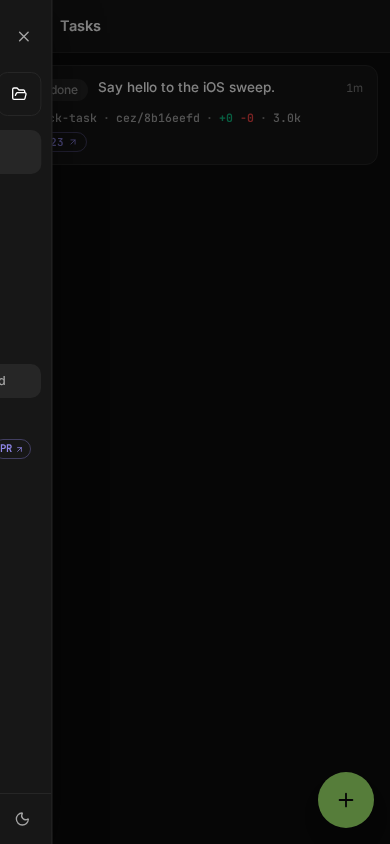
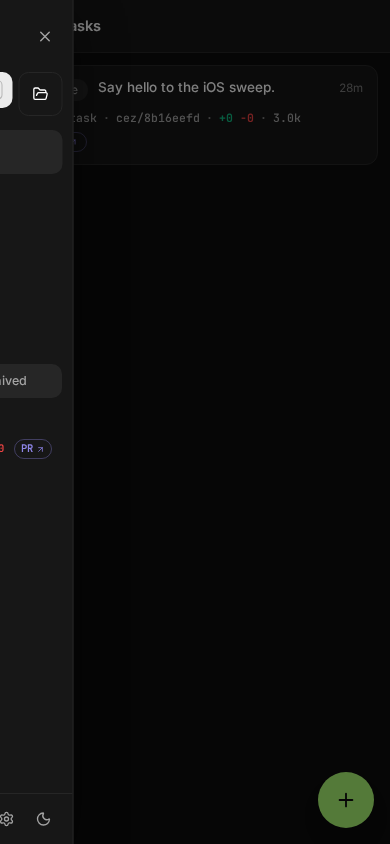
docs(runs): record passing final gate

diff --git a/.ai/runs/2026-07-22-automatic-open-mercato-skills-updates/final-gate-checks.md b/.ai/runs/2026-07-22-automatic-open-mercato-skills-updates/final-gate-checks.md
@@ -1,0 +1,41 @@
+# Final gate — Automatic Open Mercato skills updates
+
+**Final implementation SHA:** `566586c`
+**Source spec:** `.ai/specs/2026-07-22-automatic-open-mercato-skills-updates.md`
+
+## Configured validation gate
+
+- ✅ `npm run typecheck`
+- ✅ `npm test` — 229 files, 4,010 tests passed
+- ✅ `npm run test:unit` — 34 tests passed
+- ✅ `npm run build` — server, cockpit, and `check:pack` passed
+- ✅ `npm run test:package` — 8 tests passed
+
+The first unit-gate attempt identified missing protected-route inventory entries for the three new workspace endpoints. Step `3.5-final-fix` added them; the complete gate then passed.
+
+## Full integration suite
+
+- ✅ `npm run test:e2e`
+- Result: `TEST_E2E_STATUS=passed`
+- 31 files passed; 190 tests passed; 4 intentional skips.
+- Initial full-suite runs exposed legacy fixture drift around project-scoped URLs, detached HEAD, nondeterministic dry-run PR state, async query settling, and fixture-server teardown. Steps `3.6-final-fix` through `3.8-final-fix` stabilized those tests without weakening their behavioral contracts.
+
+## Skills update visual evidence
+
+- `checkpoint-3-artifacts/settings-skills-auto-update.png`
+- `checkpoint-3-artifacts/skills-navigation-current.png`
+- `checkpoint-3-artifacts/skills-update-success.png`
+- `checkpoint-3-artifacts/skills-mobile-navigation.png`
+
+## Style-compliance pass
+
+- ⏭ No separate design-system/style-compliance skill or script is configured for this repository.
+- ✅ TypeScript typecheck, existing UI unit tests, production Vite build, and the full real-browser suite cover the changed UI surface.
+
+## Compatibility and security checks
+
+- New workspace config and API fields are additive and optional.
+- The three new routes are workspace-level only and listed in `BACKWARD_COMPATIBILITY.md`.
+- Browser input cannot select executables, arguments, paths, repositories, sources, skills, or scopes.
+- Update ownership fails closed to lock-proven canonical Open Mercato sources, with bounded output and no credential/environment logging.
+

diff --git a/.ai/runs/2026-07-22-automatic-open-mercato-skills-updates/HANDOFF.md b/.ai/runs/2026-07-22-automatic-open-mercato-skills-updates/HANDOFF.md
@@ -1,19 +1,19 @@
 # Handoff — 2026-07-22-automatic-open-mercato-skills-updates
 
-**Last updated:** 2026-07-22T17:37:10Z
+**Last updated:** 2026-07-22T18:24:00Z
 **Branch:** `spec/automatic-open-mercato-skills-updates`
 **PR:** https://github.com/open-mercato/cezar/pull/613
-**Current phase/step:** Phase 3 Step 3.1
-**Last commit:** `28df27b` — guarded manual apply behavior
+**Current phase/step:** Automated review
+**Last commit:** `566586c` — final E2E fixture stabilization
 
 ## What just happened
 
-- Phase 2 delivered inherited preference handling, safe mutation/scheduling, and the guarded apply route.
-- Typecheck and 62 focused config/service/server tests pass; results are recorded in `checkpoint-2-checks.md`.
+- All implementation and final-fix rows are done.
+- The complete configured gate and full E2E suite pass; evidence is recorded in `final-gate-checks.md`.
 
 ## Next concrete action
 
-- Implement Step 3.1: the global Skills settings surface and component tests.
+- Run self-review and `om-auto-review-pr`, apply any fixes, then finalize PR labels/body/evidence.
 
 ## Blockers / open questions
 

diff --git a/.ai/runs/2026-07-22-automatic-open-mercato-skills-updates/NOTIFY.md b/.ai/runs/2026-07-22-automatic-open-mercato-skills-updates/NOTIFY.md
@@ -21,3 +21,9 @@
 - Steps: 2.1–2.3 (`65759ef..28df27b`)
 - Result: preference, safe update scheduling/execution, and guarded manual apply verified.
 - Checks: typecheck and 62 focused tests passed; rendered UI work begins in Phase 3.
+
+## 2026-07-22T18:24:00Z — final gate passed
+
+- Configured validation: typecheck, 4,010 Vitest tests, 34 core tests, build/pack, and 8 package tests passed.
+- Full integration: 31 files passed; 190 tests passed; 4 intentional skips; `TEST_E2E_STATUS=passed`.
+- Visual evidence: four Skills update screenshots retained under `checkpoint-3-artifacts/`.
